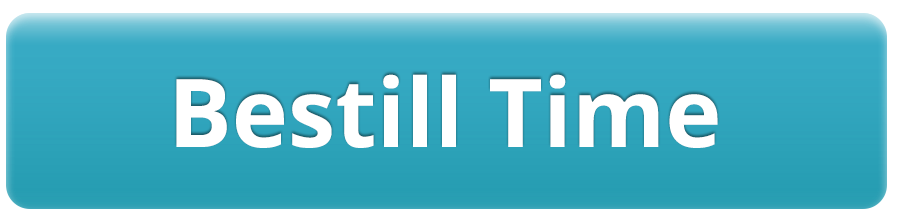
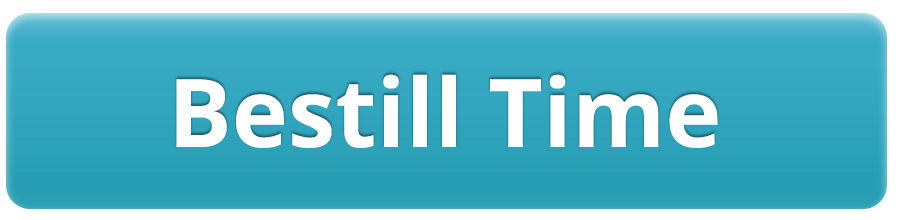
Nye versjoner av knappene, synes de ser ganske bra ut nå.

Changed region(s): [[0.0, 0.0545, 0.9956, 0.1364]]

diff --git a/content/c_1.html b/content/c_1.html
@@ -7,7 +7,7 @@
 
     <p>Timebestilling kan gjøres online her.</p>
 
-    <img src="../images/bestilltime.png" class="orderbutton">
+    <img src="../images/bestilltimev2.png" class="orderbutton">
 
     <p>Du kan gå direkte til manuellterapeut uten henvisning fra fastlege. Det blir ikke dyrere for deg.</p>
 
